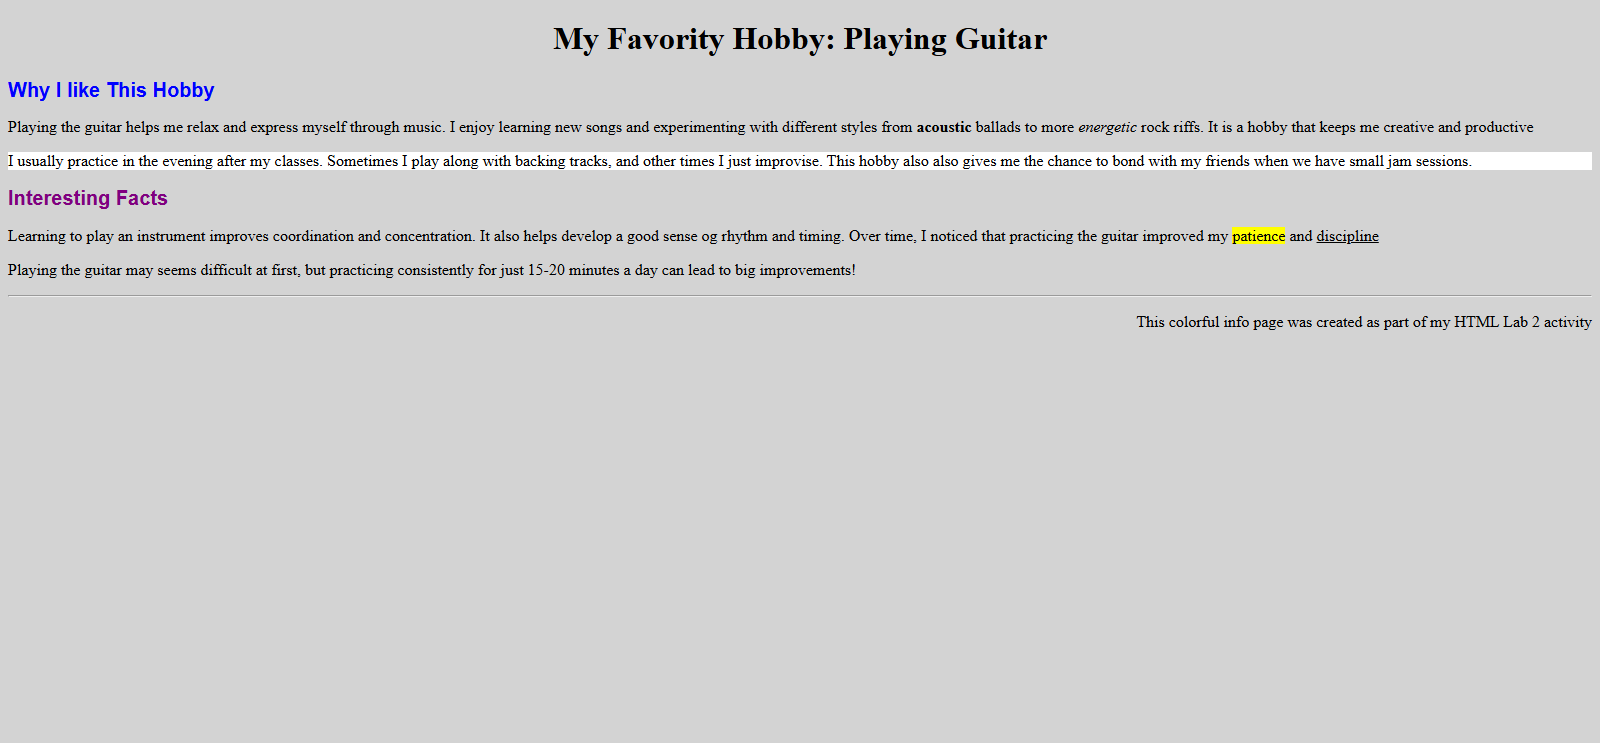
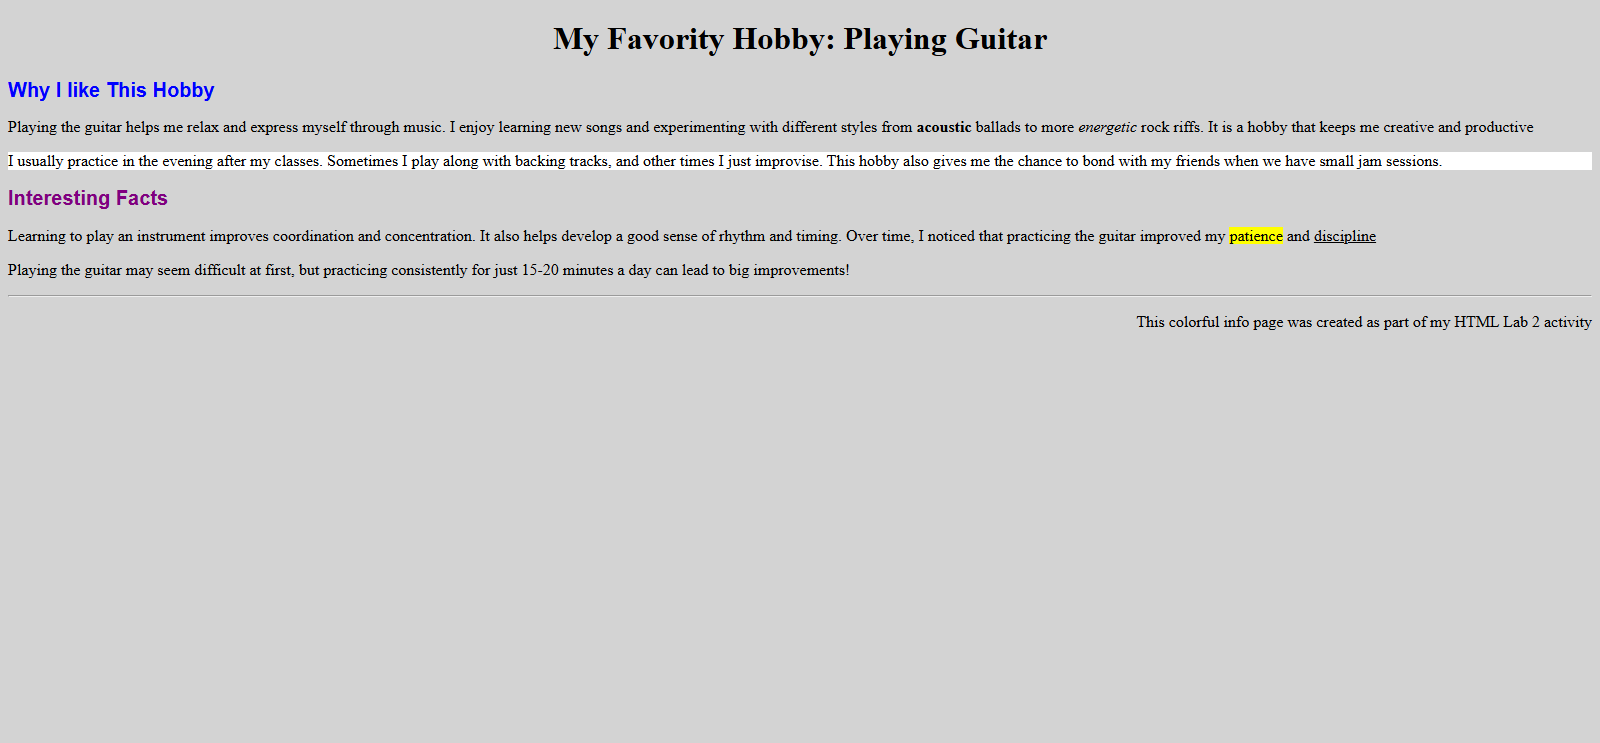
Final cleanup: Remove X/Phone, update hero email copy, and refine project data

Changed region(s): [[0.125, 0.3096, 0.875, 0.3715], [0.5938, 0.1857, 0.9062, 0.2476]]

diff --git a/src/data/portfolioData.js b/src/data/portfolioData.js
@@ -72,51 +72,51 @@ export const portfolioData = {
   ],
   projects: [
     {
-      title: "Semantic Markup & Typography Systems",
+      title: "Student Poem Page",
       url: "Activities/Activity_1.html",
-      tags: ["HTML", "Typography"],
+      tags: ["HTML", "Inline Styles"],
       num: "Project 01",
       image: "images/1.png"
     },
     {
-      title: "Interactive Interface Design",
+      title: "Colorful Hobby Info Page",
       url: "Activities/Activity_2.html",
-      tags: ["HTML", "CSS Styling"],
+      tags: ["HTML", "Inline CSS"],
       num: "Project 02",
       image: "images/2.png"
     },
     {
-      title: "Data Visualization with Relational Tables",
+      title: "Student Grade Report",
       url: "Activities/Activity_3.html",
       tags: ["HTML Tables", "CSS"],
       num: "Project 03",
       image: "images/3.png"
     },
     {
-      title: "Complex Tabular Data Structures",
+      title: "Weekly Class Schedule",
       url: "Activities/Activity_4.html",
-      tags: ["HTML", "Colspan"],
+      tags: ["HTML Tables", "Colspan"],
       num: "Project 04",
       image: "images/4.png"
     },
     {
-      title: "Hierarchical Grid Layout Engineering",
+      title: "Nested Tables Layout",
       url: "Activities/Activity_5.html",
       tags: ["Nested Tables", "HTML"],
       num: "Project 05",
       image: "images/5.png"
     },
     {
-      title: "Advanced Structural Layout Design",
+      title: "Colspan & Rowspan Table Layout",
       url: "Activities/Activity_6.html",
-      tags: ["HTML Layout", "Rowspan"],
+      tags: ["Colspan", "Rowspan"],
       num: "Project 06",
       image: "images/6.png"
     },
     {
-      title: "Information Hierarchy & List Architecture",
+      title: "HTML List Types Page",
       url: "Activities/Activity_7.html",
-      tags: ["HTML Lists", "Typography"],
+      tags: ["HTML Lists", "Ordered & Unordered"],
       num: "Project 07",
       image: "images/7.png"
     }

diff --git a/src/assets/css/style.css b/src/assets/css/style.css
@@ -367,8 +367,7 @@
     height: 20px;
   }
   .skill-card h4 { font-family:'Syne',sans-serif; font-weight:700; margin-bottom:8px; color: var(--text-main); }
-  .skill-card p { font-size:0.82rem; color:var(--mid); line-height:1.7; }
-  .skill-card p { flex:1; }
+  .skill-card p { font-size:0.82rem; color:var(--mid); line-height:1.7; flex:1; }
   .skill-tags {
     display: flex;
     flex-wrap: wrap;
@@ -583,15 +582,6 @@
   }
   .contact-link span { font-size:0.82rem; letter-spacing:1px; }
   .contact-icon { font-size:1.2rem; }
-  .dl-btn {
-    display:inline-block; margin-top:28px;
-    font-family:'Syne',sans-serif; font-size:0.8rem; font-weight:700;
-    letter-spacing:2px; text-transform:uppercase;
-    border:2px solid var(--maroon-glow); color:var(--maroon-glow);
-    padding:14px 28px; text-decoration:none; border-radius:2px;
-    transition:background 0.2s, color 0.2s;
-  }
-  .dl-btn:hover { background:var(--maroon-glow); color:#fff; }
 
   /* ——— FOOTER ——— */
   footer {

diff --git a/Activities/Activity_2.html b/Activities/Activity_2.html
@@ -15,7 +15,7 @@ Why I like This Hobby
 <p> Playing the guitar helps me relax and express myself through music. I enjoy learning new songs and experimenting with different styles from <b>acoustic</b> ballads to more <i>energetic</i> rock riffs. It is a hobby that keeps me creative and productive
 </p>
 
-<p style="background-color:white;" > I usually practice in the evening after my classes. Sometimes I play along with backing tracks, and other times I just improvise. This hobby also also gives me the chance to bond with my friends when we have small jam sessions.
+<p style="background-color:white;" > I usually practice in the evening after my classes. Sometimes I play along with backing tracks, and other times I just improvise. This hobby also gives me the chance to bond with my friends when we have small jam sessions.
 </p>
 
 <h2 style="color:purple; font-size:20px ; font-family:arial"> 
@@ -23,15 +23,14 @@ Interesting Facts
 </h2>
 
 <p>
-Learning to play an instrument improves coordination and concentration. It also helps develop a good sense og rhythm and timing. Over time, I noticed that practicing the guitar improved my <mark>patience</mark> and <u>discipline</u>
+Learning to play an instrument improves coordination and concentration. It also helps develop a good sense of rhythm and timing. Over time, I noticed that practicing the guitar improved my <mark>patience</mark> and <u>discipline</u>
 </P>
 
 <p>
-Playing the guitar may seems difficult at first, but practicing consistently for just 15-20 minutes a day can lead to big improvements!
+Playing the guitar may seem difficult at first, but practicing consistently for just 15-20 minutes a day can lead to big improvements!
 </p>
 
 <hr>
-</hr>
 
 <p>
 </p>

diff --git a/src/assets/js/app.js b/src/assets/js/app.js
@@ -1,6 +1,6 @@
-import { portfolioData } from '../../data/portfolioData.js';
-import { PortfolioView } from '../../views/portfolioView.js';
-import { PortfolioController } from '../../controllers/portfolioController.js';
+import { portfolioData } from './portfolioData.js';
+import { PortfolioView } from './portfolioView.js';
+import { PortfolioController } from './portfolioController.js';
 
 const init = () => {
     try {

diff --git a/src/views/portfolioView.js b/src/views/portfolioView.js
@@ -248,7 +248,7 @@ export class PortfolioView {
         const year = new Date().getFullYear();
         return `
             <footer>
-                <p>&copy; ${year} ${personalInfo.name} &mdash; ${personalInfo.nickname} &nbsp;|&nbsp; ${personalInfo.role.split(' & ')[1]} &middot; System Architect &nbsp;|&nbsp; ${personalInfo.school}</p>
+                <p>&copy; ${year} ${personalInfo.name} &mdash; ${personalInfo.nickname} &nbsp;|&nbsp; ${personalInfo.role} &nbsp;|&nbsp; ${personalInfo.school}</p>
             </footer>
         `;
     }